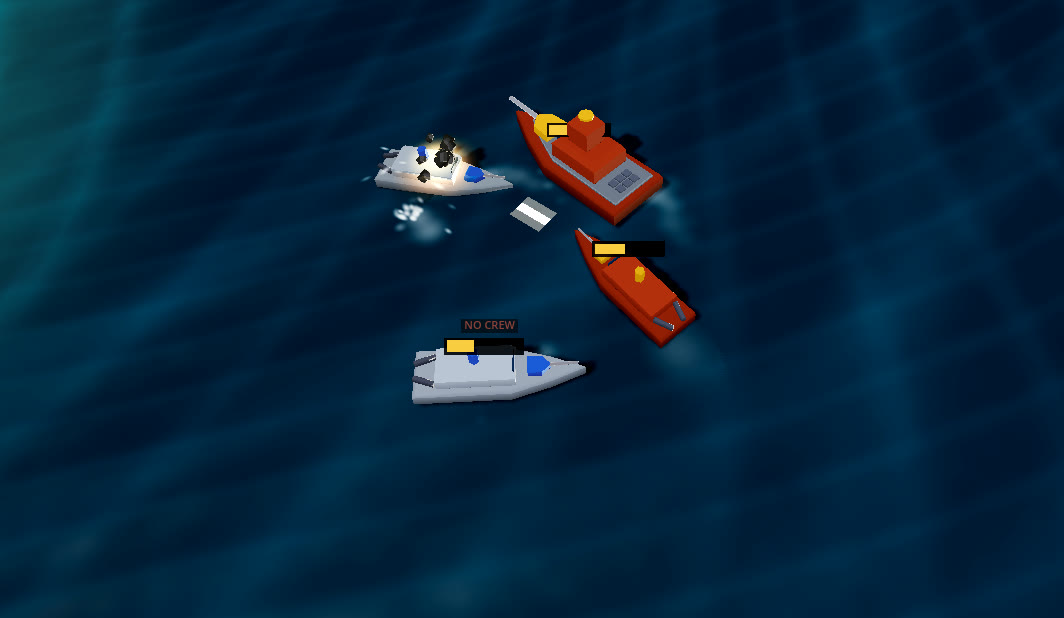
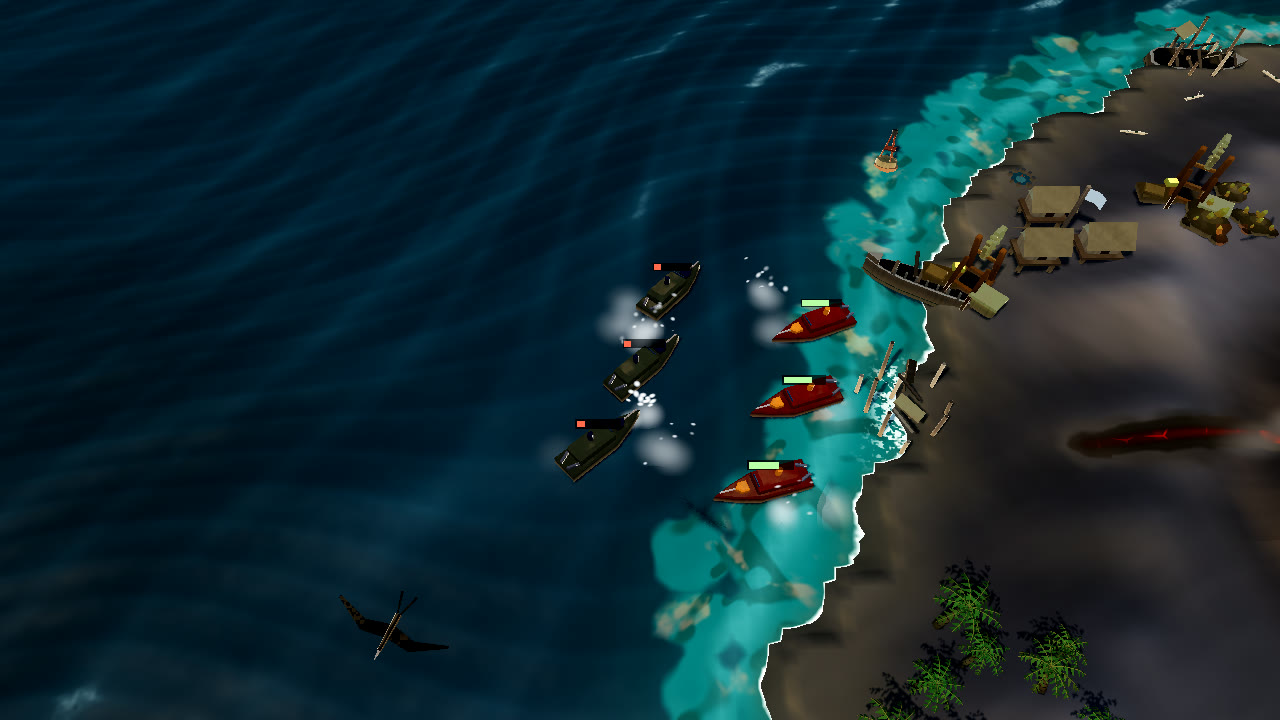
Archiwar page: new volcano and sea fight screenshots
Claude-Session: https://claude.ai/code/session_018FGVUkr1sh6VVCQKW3ioia

diff --git a/public/archiwar/index.html b/public/archiwar/index.html
@@ -115,8 +115,8 @@
       </figure>
 
       <figure class="recipe-figure">
-        <img src="/assets/archiwar/v2-sea.jpg" alt="Two red gunboats attacking a white patrol boat at sea, with a second white boat marked NO CREW" loading="lazy">
-        <figcaption>A fight at sea. The white boat at the bottom has lost its crew.</figcaption>
+        <img src="/assets/archiwar/v2-sea.jpg" alt="Three olive Charter corvettes trading fire with three red gunboats off a reef, shell splashes in the water around them and a stilt village on the shore" loading="lazy">
+        <figcaption>A fight at sea, just off a reef. Shells that miss throw up water.</figcaption>
       </figure>
 
       <figure class="recipe-figure">
@@ -146,7 +146,7 @@
         burns, palms next to it catch fire, and nothing can be built on the cone.
       </p>
       <figure class="recipe-figure">
-        <img src="/assets/archiwar/v3-volc.jpg" alt="A volcano on a sandy island, its dark ash cone streaked with glowing lava flows, palms burning at its foot and a plume of ash drifting downwind" loading="lazy">
+        <img src="/assets/archiwar/v3-volc.jpg" alt="A volcano on a grey sand island, glowing lava flows running down its dark ash cone, palms burning at its foot and a plume of ash drifting downwind" loading="lazy">
         <figcaption>A volcano. The lava follows the gullies down from the crater.</figcaption>
       </figure>
       <p>
